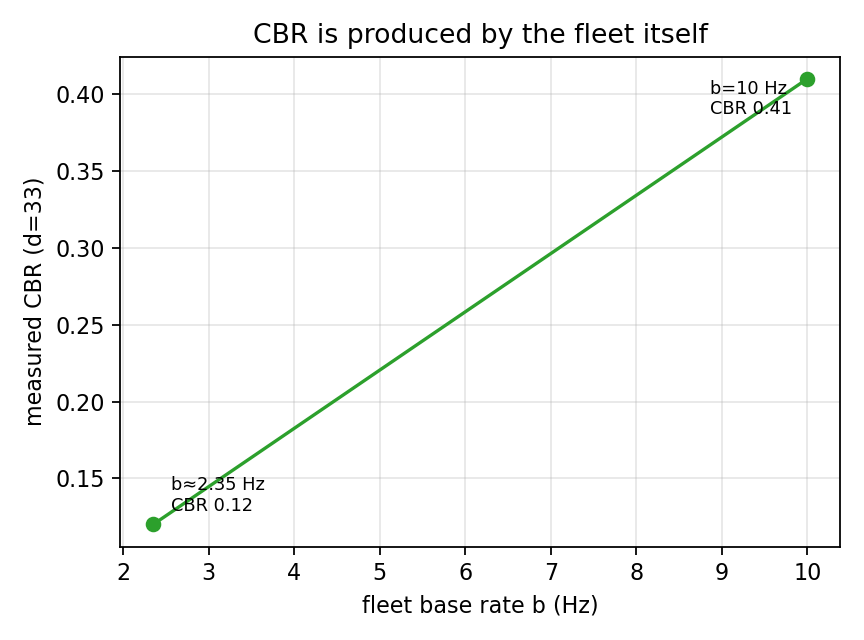
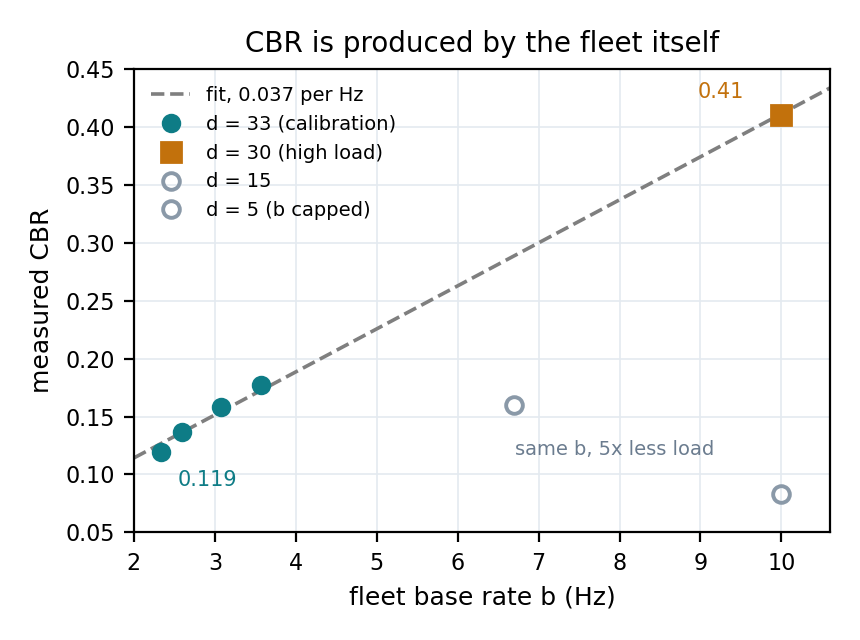
Redraw fig2 by density and cite it in the report
旧图是两点连线（两个锚点还来自不同密度）。改为：d=33 四个校准点 + d=30 高负载锚点拟合同一族趋势（0.037/Hz），d=15 与 d=5 作为空心点单列，标注同一 b 下 CBR 差五倍。报告 6.1 的事实表补密度与拟合，并嵌入图 2。

diff --git a/TABR_project/tools/make_figures.py b/TABR_project/tools/make_figures.py
@@ -3,10 +3,11 @@
 
     python tools/make_figures.py              # writes docs/figures/fig5..fig7
 
-fig1..fig4 predate this script (they were drawn from the calibration and S1
-matrices in the working repo); they are kept untouched so the images cited by
-the earlier commits stay byte-identical. This script only covers the figures
-added together with the beta sweep and the v4 deployment.
+fig1, fig3 and fig4 predate this script (they were drawn from the calibration
+and S1 matrices in the working repo) and are kept untouched so the images cited
+by the earlier commits stay byte-identical. fig2 is regenerated here from the
+calibration table plus the load ladder, because the previous version was a
+two-point chord between anchors from two different densities.
 
 Every number below is copied from TABR_project/docs/REPORT_20261124.md
 (sections in the comments) or from the archived sweep summary; keep them in
@@ -14,6 +15,7 @@ step with the report when the report changes.
 """
 import io
 import csv
+import sys
 from pathlib import Path
 
 import matplotlib
@@ -194,10 +196,68 @@ def fig7_delay_split():
     return path
 
 
+def fig2_cbr():
+    """CBR against fleet base rate, split by density.
+
+    d = 33 gives four calibration targets on one line; the d = 30 anchor comes
+    from the high-load campaign; d = 15 and d = 5 sit far below at the same
+    base rate, which is the point: CBR is produced by rate *and* density.
+    Numbers from REPORT_20261124.md sections 5.1 and 5.2.
+    """
+    cal_b = [2.33, 2.60, 3.08, 3.57]
+    cal_c = [0.119, 0.137, 0.158, 0.177]
+    a_b, a_c = 10.0, 0.41
+    d15 = (6.70, 0.160)
+    d5 = (10.00, 0.083)
+
+    xs = cal_b + [a_b]
+    ys = cal_c + [a_c]
+    xbar = sum(xs) / len(xs)
+    ybar = sum(ys) / len(ys)
+    k = sum((x - xbar) * (y - ybar) for x, y in zip(xs, ys)) / sum((x - xbar) ** 2 for x in xs)
+    c0 = ybar - k * xbar
+
+    fig, ax = plt.subplots(figsize=(4.3, 3.2), dpi=200)
+    gx = [2.0, 10.6]
+    ax.plot(gx, [k * x + c0 for x in gx], ls="--", lw=1.3, color=GREY,
+            label="fit, %.3f per Hz" % k)
+    ax.plot(cal_b, cal_c, "o", color=TEAL, ms=6, label="d = 33 (calibration)")
+    ax.plot([a_b], [a_c], "s", color=ORANGE, ms=7, label="d = 30 (high load)")
+    ax.plot([d15[0]], [d15[1]], "o", mfc="none", mec="#8A99A8", ms=6, mew=1.4, label="d = 15")
+    ax.plot([d5[0]], [d5[1]], "o", mfc="none", mec="#8A99A8", ms=6, mew=1.4, label="d = 5 (b capped)")
+
+    ax.annotate("%.3f" % cal_c[0], (cal_b[0], cal_c[0]), xytext=(6, -12),
+                textcoords="offset points", fontsize=7.5, color=TEAL)
+    ax.annotate("%.2f" % a_c, (a_b, a_c), xytext=(-30, 6), textcoords="offset points",
+                fontsize=7.5, color=ORANGE)
+    ax.annotate("same b, 5x less load", (d5[0], d5[1]), xytext=(-96, 14),
+                textcoords="offset points", fontsize=7, color="#6B7C8F")
+
+    ax.set_xlim(2.0, 10.6)
+    ax.set_ylim(0.05, 0.45)
+    ax.set_xlabel("fleet base rate b (Hz)", fontsize=9)
+    ax.set_ylabel("measured CBR", fontsize=9)
+    ax.set_title("CBR is produced by the fleet itself", fontsize=10)
+    ax.tick_params(labelsize=8)
+    ax.grid(True, color="#E4EAF0", lw=0.6)
+    ax.legend(fontsize=7, loc="upper left", frameon=False)
+    fig.tight_layout()
+    path = OUT / "fig2_cbr_vs_rate.png"
+    fig.savefig(path, dpi=200)
+    plt.close(fig)
+    return path
+
+
 def main():
     OUT.mkdir(parents=True, exist_ok=True)
-    compact, ceiling = read_sweep()
-    for path in (fig5_beta(compact, ceiling), fig6_v4(), fig7_delay_split()):
+    which = sys.argv[1] if len(sys.argv) > 1 else "all"
+    paths = []
+    if which in ("all", "fig2"):
+        paths.append(fig2_cbr())
+    if which in ("all", "sweep"):
+        compact, ceiling = read_sweep()
+        paths += [fig5_beta(compact, ceiling), fig6_v4(), fig7_delay_split()]
+    for path in paths:
         print("wrote", path, path.stat().st_size, "bytes")
 
 

diff --git a/TABR_project/docs/REPORT_20261124.md b/TABR_project/docs/REPORT_20261124.md
@@ -377,9 +377,16 @@ CBR 不是独立于策略的背景量，而是由车队自身信标产生的：
 
 | 观测 | 值 |
 | --- | --- |
-| b≈2.35 Hz 时实测 CBR（d=33） | 0.12 |
-| b=10 Hz 时实测 CBR（d=30） | 0.41 |
-| 斜率 | 约 0.04 / Hz |
+| d=33，b = 2.33–3.57 Hz（四个校准点） | CBR 0.119–0.177 |
+| d=30，b = 10 Hz（高负载锚点） | CBR 0.41 |
+| d≈30–33 这一族的线性拟合 | 0.037 / Hz |
+| 对照：d=5，b = 10 Hz（顶格） | CBR 0.083 |
+
+同为 10 Hz，d=5 只有 0.083 而 d=30 是 0.41——CBR 不只由速率决定，也由密度决定。所以下图只把 d≈30–33 的点放进同一条趋势，低密度点单独标注；把不同密度的点混在一条线上，得到的斜率没有意义。
+
+![CBR 与基础速率](figures/fig2_cbr_vs_rate.png)
+
+*图 2：CBR 与基础速率的关系按密度分开。d=33 的四个校准点（2.33/0.119、2.60/0.137、3.08/0.158、3.57/0.177）落在一条线上，拟合 0.037 / Hz；d=30 的高负载锚点在 (10 Hz, 0.41)；同为 10 Hz 的 d=5 只有 0.083，作为空心点单列。生成脚本 `tools/make_figures.py fig2`。*
 
 #### 张力
 
